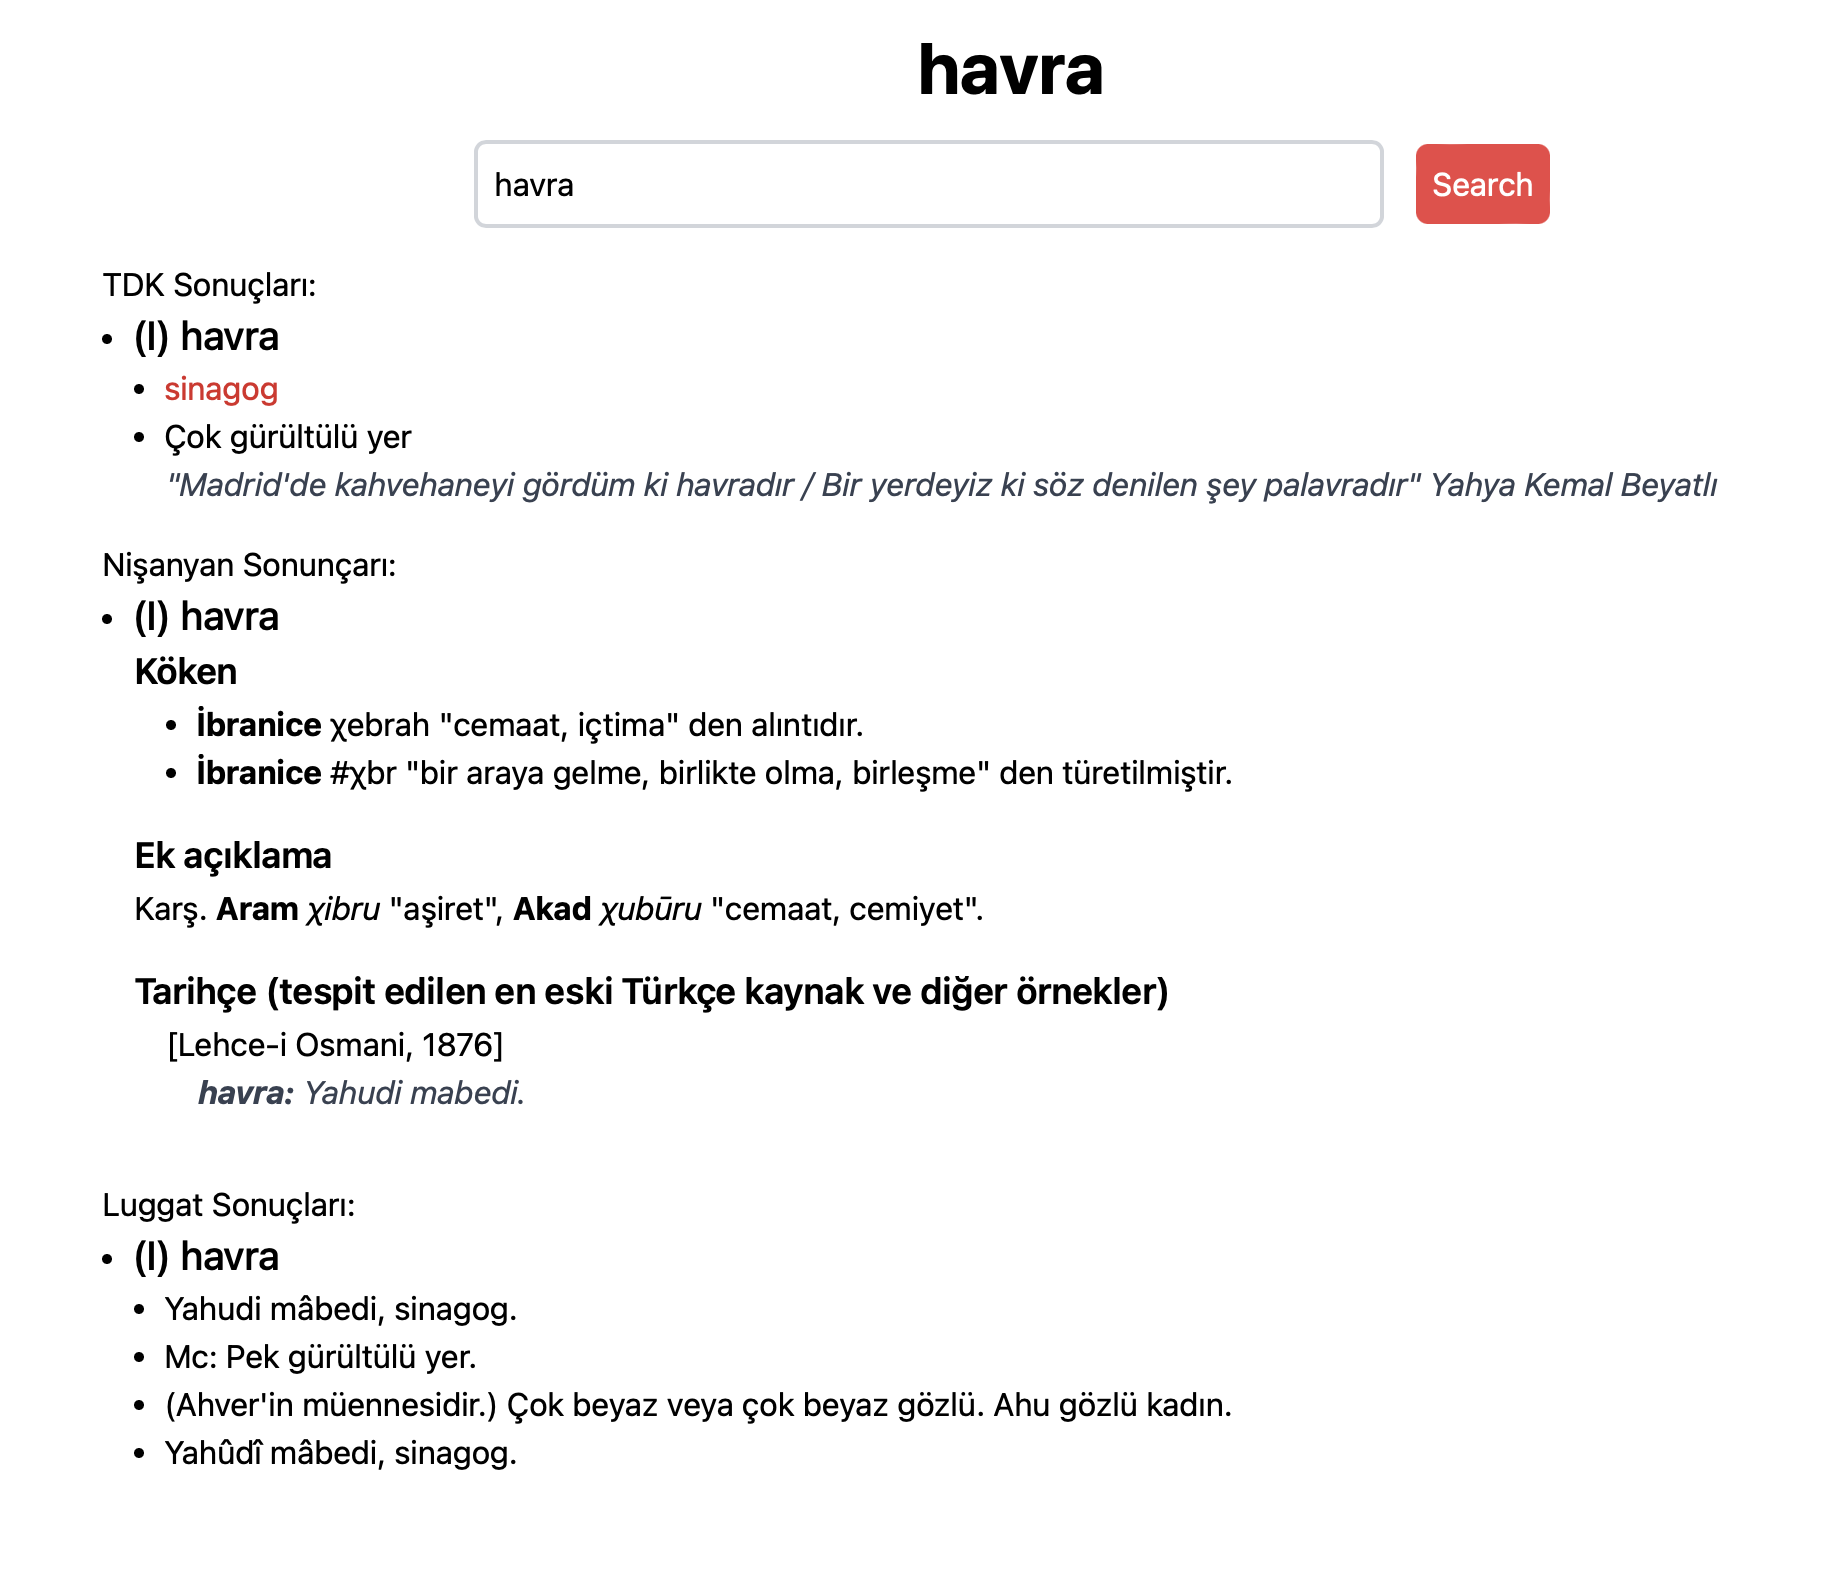
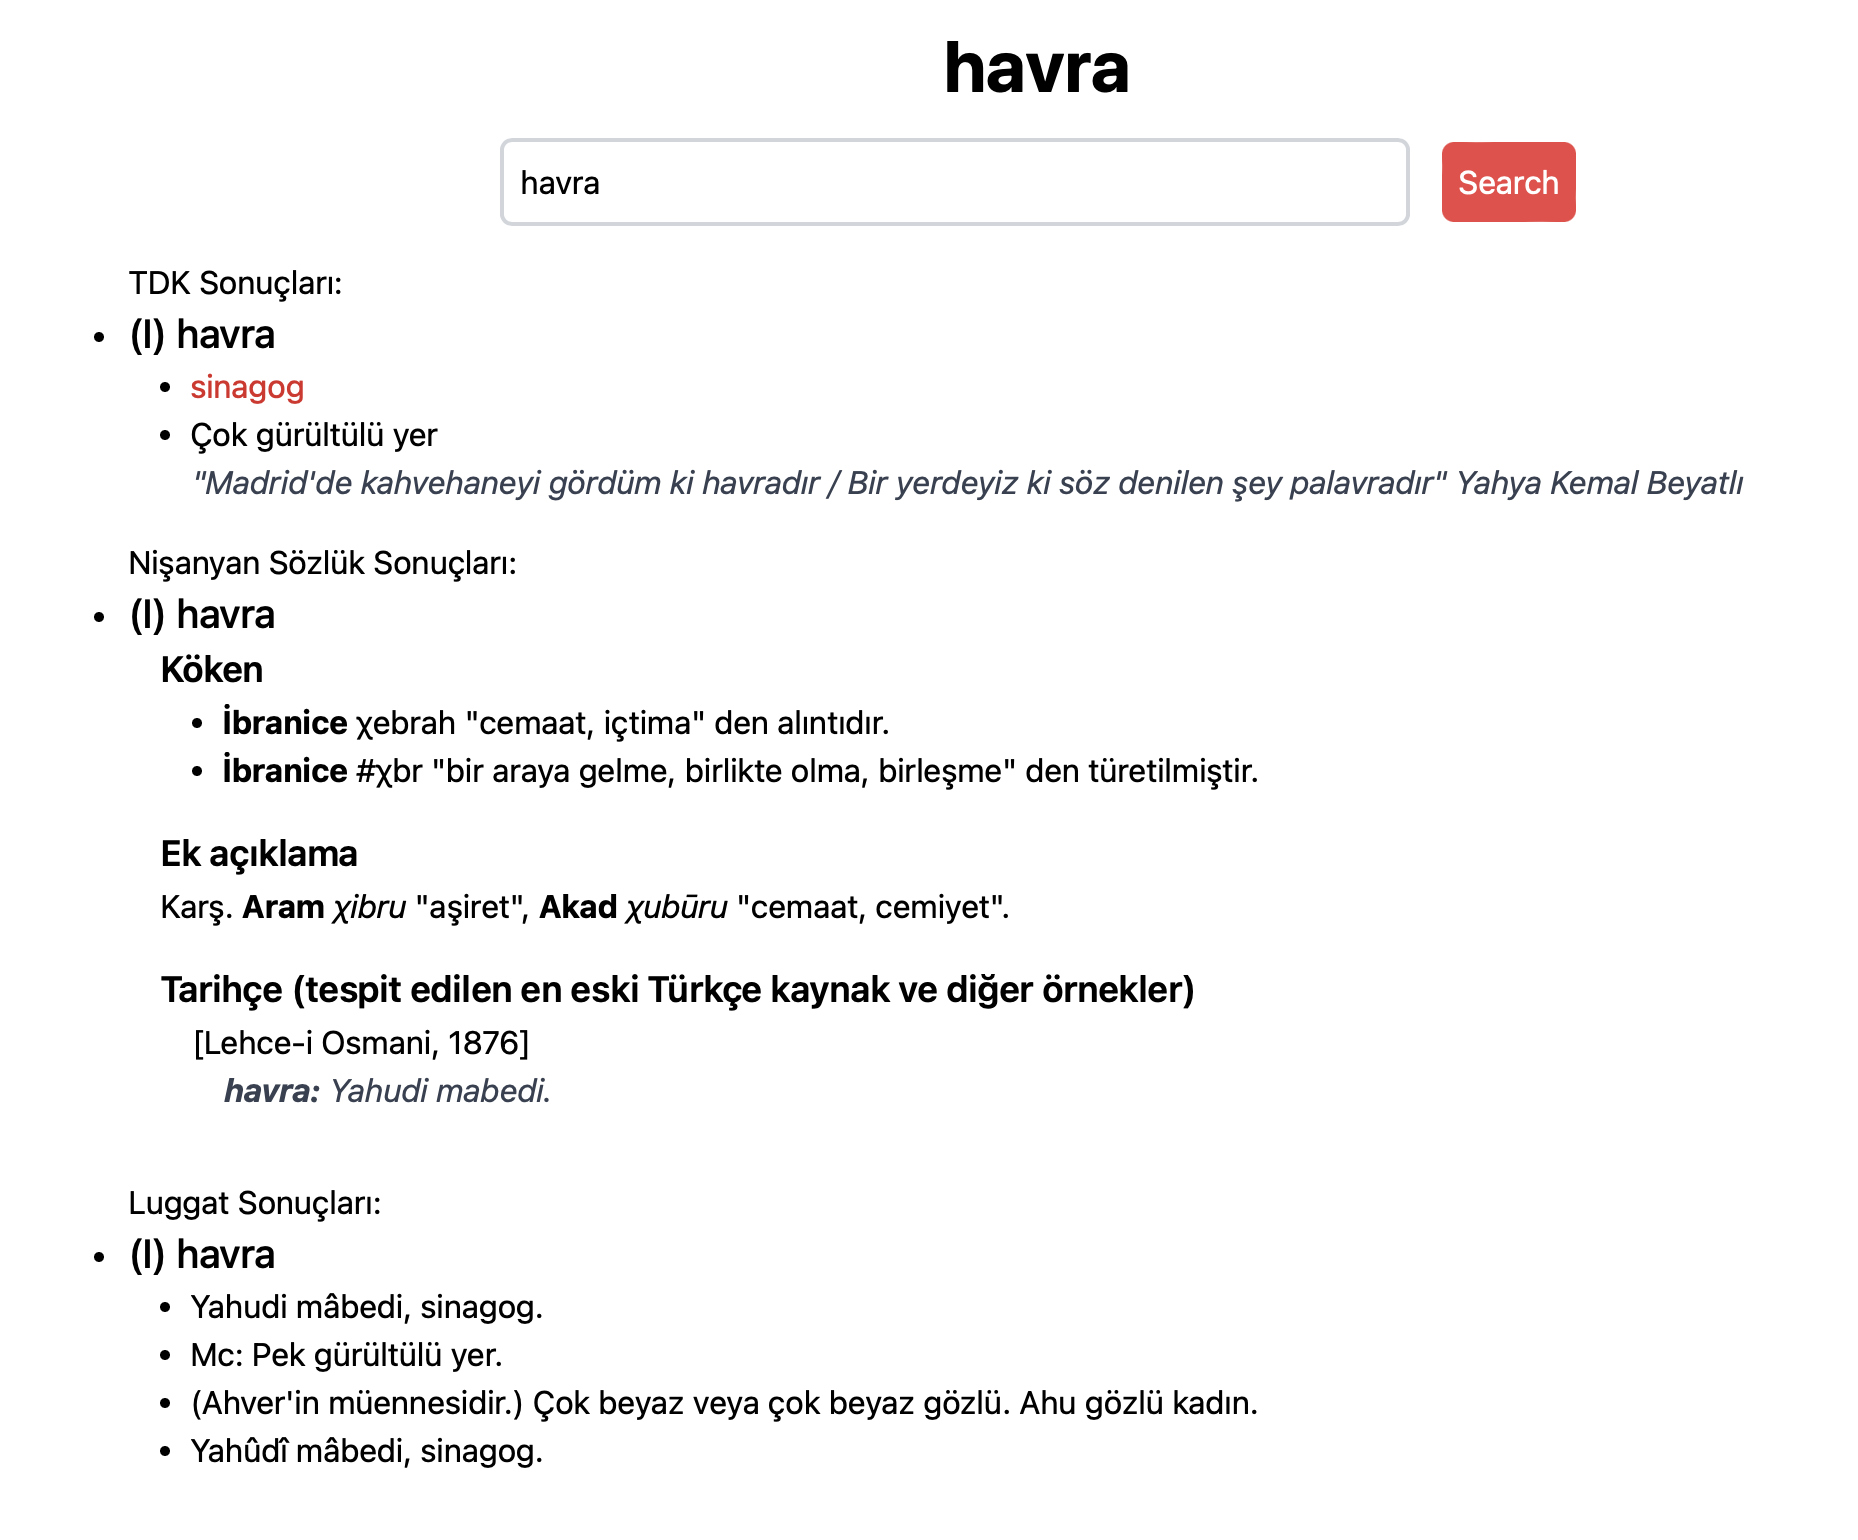
fix: typo

Changed region(s): [[0.0619, 0.1558, 0.9283, 0.7169], [0.0619, 0.7481, 0.6808, 0.9662], [0.2476, 0.0312, 0.8664, 0.1558]]

diff --git a/src/routes/search/[query]/index.tsx b/src/routes/search/[query]/index.tsx
@@ -19,7 +19,7 @@ export default component$(() => {
         <SearchBar value={loc.params.query} />
         <h1 style="results-heading">TDK Sonuçları:</h1>
         <TDKView data={tdk.value} />
-        <h1 style="results-heading">NişanyanSözlük Sonunçarı:</h1>
+        <h1 style="results-heading">Nişanyan Sözlük Sonuçları:</h1>
         <NisanyanView data={nisanyan.value} />
         <h1 style="results-heading">Luggat Sonuçları:</h1>
         <LuggatView data={luggat.value} />
